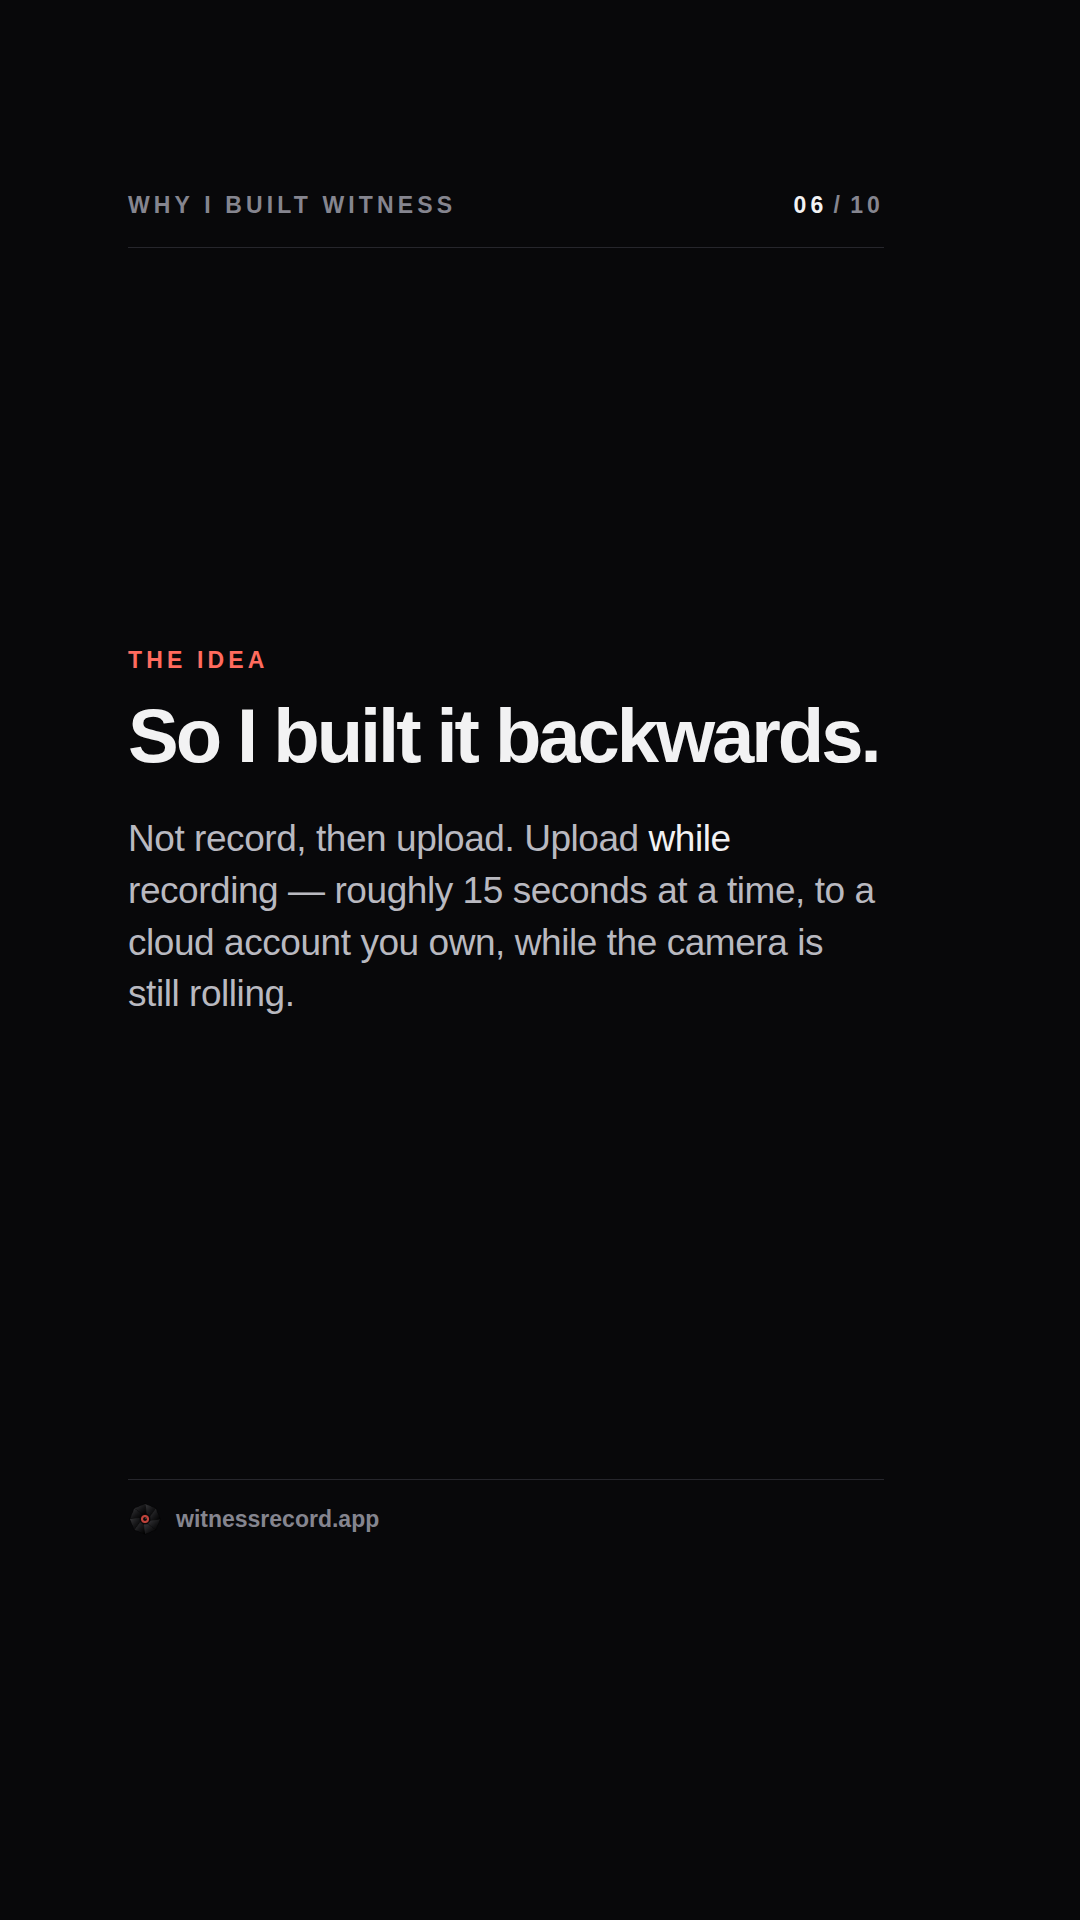
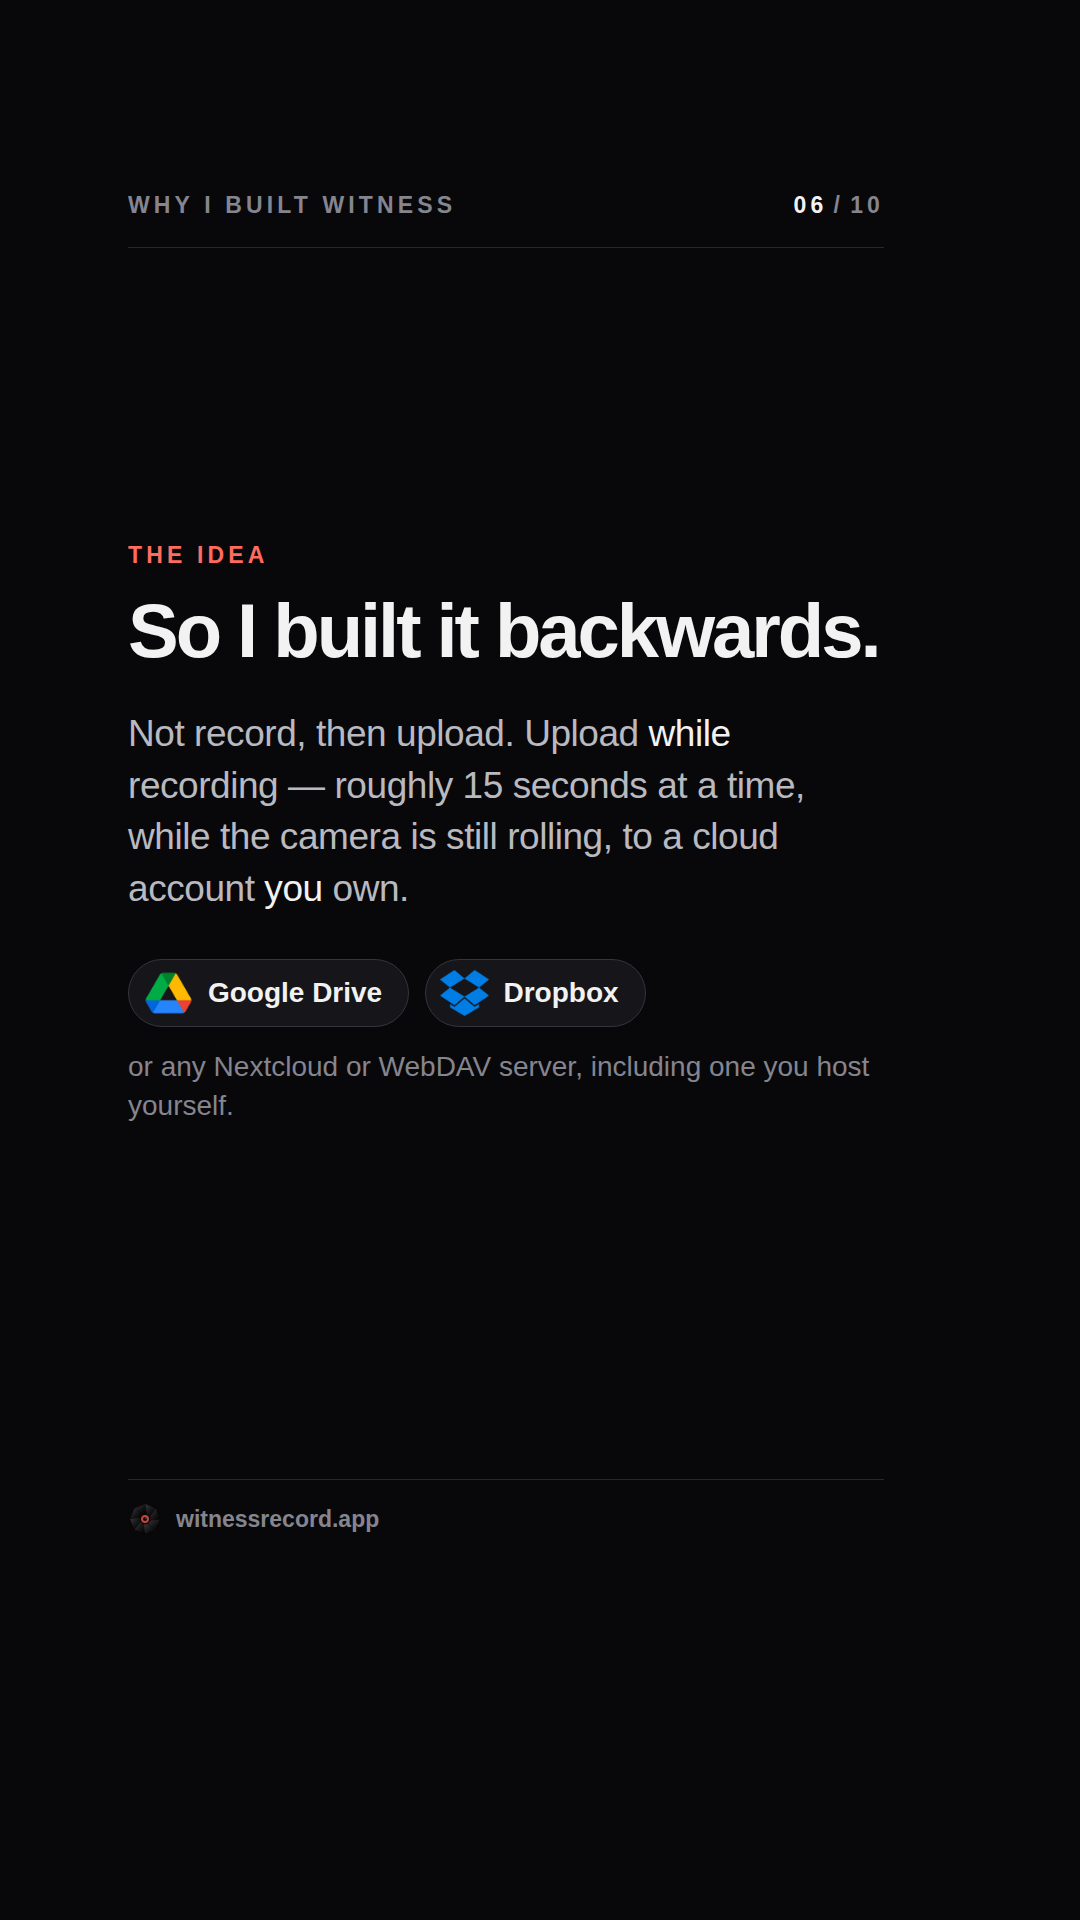
Show the storage destinations on the idea slide
Google Drive and Dropbox as logo chips, reusing the marks already in
img/. Nextcloud has no mark in this repo and WebDAV is a protocol
rather than a brand, so both are named in text instead of drawn from
memory.

The body line drops the destinations now that the chips carry them.

Claude-Session: https://claude.ai/code/session_01Akq5Wku8xeo6qiCmub5pxH

Changed region(s): [[0.1222, 0.2812, 0.7944, 0.5938], [0.7639, 0.4375, 0.7944, 0.4688]]

diff --git a/social/tiktok-injustice-story/Idea.dc.html b/social/tiktok-injustice-story/Idea.dc.html
@@ -21,7 +21,18 @@
 <div style="flex: 1; display: flex; flex-direction: column; justify-content: center; padding-bottom: 60px;">
   <div style="font-size: 23px; font-weight: 600; letter-spacing: 0.18em; text-transform: uppercase; color: #ff6b5e; margin-bottom: 22px;">The idea</div>
   <h2 style="margin: 0; font-size: 76px; font-weight: 700; letter-spacing: -0.04em; line-height: 1.04; color: #f2f2f3; text-wrap: pretty;">So I built it backwards.</h2>
-  <p style="margin: 38px 0 0; font-size: 37px; line-height: 1.4; letter-spacing: -0.012em; color: #b9b9c0; max-width: 756px; text-wrap: pretty;">Not record, then upload. Upload <em style="font-style: normal; color: #f2f2f3;">while</em> recording &#8212; roughly 15 seconds at a time, to a cloud account you own, while the camera is still rolling.</p>
+  <p style="margin: 38px 0 0; font-size: 37px; line-height: 1.4; letter-spacing: -0.012em; color: #b9b9c0; max-width: 756px; text-wrap: pretty;">Not record, then upload. Upload <em style="font-style: normal; color: #f2f2f3;">while</em> recording &#8212; roughly 15 seconds at a time, while the camera is still rolling, to a cloud account <em style="font-style: normal; color: #f2f2f3;">you</em> own.</p>
+  <div style="display: flex; flex-wrap: wrap; gap: 16px; margin-top: 44px;">
+    <div style="display: flex; align-items: center; gap: 14px; border: 1px solid #34343c; background: #16161a; border-radius: 999px; padding: 10px 26px 10px 14px;">
+      <img src="logo-google-drive.png" alt="" style="height: 46px; width: auto; display: block;">
+      <span style="font-size: 28px; font-weight: 600; color: #f2f2f3;">Google Drive</span>
+    </div>
+    <div style="display: flex; align-items: center; gap: 14px; border: 1px solid #34343c; background: #16161a; border-radius: 999px; padding: 10px 26px 10px 14px;">
+      <img src="logo-dropbox.png" alt="" style="height: 46px; width: auto; display: block;">
+      <span style="font-size: 28px; font-weight: 600; color: #f2f2f3;">Dropbox</span>
+    </div>
+  </div>
+  <div style="margin-top: 20px; font-size: 28px; line-height: 1.4; color: #85858f;">or any Nextcloud or WebDAV server, including one you host yourself.</div>
 </div>
 <div style="height: 1px; background: #26262c; margin: 0 0 22px;"></div>
 <div style="display: flex; align-items: center; gap: 14px;">

diff --git a/social/tiktok-injustice-story/build-slides.py b/social/tiktok-injustice-story/build-slides.py
@@ -84,7 +84,26 @@ def scene_label(text):
 
 # --------------------------------------------------------------- slide kinds
 
-def type_slide(n, headline, body, label=None, headline_size=64, accent=None):
+def providers():
+    """Where the footage actually goes. Only the two logos the repo already
+    ships are drawn; Nextcloud has no mark here and WebDAV is a protocol, not a
+    brand, so both are named in text rather than approximated."""
+    chip = ('    <div style="display: flex; align-items: center; gap: 14px; border: 1px solid %s; '
+            'background: %s; border-radius: 999px; padding: 10px 26px 10px 14px;">\n'
+            '      <img src="%s" alt="" style="height: 46px; width: auto; display: block;">\n'
+            '      <span style="font-size: 28px; font-weight: 600; color: %s;">%s</span>\n'
+            '    </div>')
+    return (
+        '  <div style="display: flex; flex-wrap: wrap; gap: 16px; margin-top: 44px;">\n'
+        + chip % (LINE_S, SURFACE, 'logo-google-drive.png', TEXT, 'Google Drive') + '\n'
+        + chip % (LINE_S, SURFACE, 'logo-dropbox.png', TEXT, 'Dropbox') + '\n'
+        '  </div>\n'
+        '  <div style="margin-top: 20px; font-size: 28px; line-height: 1.4; color: %s;">'
+        'or any Nextcloud or WebDAV server, including one you host yourself.</div>' % TEXT_3
+    )
+
+
+def type_slide(n, headline, body, label=None, headline_size=64, accent=None, extra=None):
     """A slide carried entirely by its words."""
     parts = [kicker(n),
              '<div style="flex: 1; display: flex; flex-direction: column; '
@@ -97,6 +116,8 @@ def type_slide(n, headline, body, label=None, headline_size=64, accent=None):
                  'line-height: 1.04; color: %s; text-wrap: pretty;">%s</h2>' % (headline_size, TEXT, headline))
     parts.append('  <p style="margin: 38px 0 0; font-size: 37px; line-height: 1.4; letter-spacing: -0.012em; '
                  'color: %s; max-width: 756px; text-wrap: pretty;">%s</p>' % (TEXT_2, body))
+    if extra:
+        parts.append(extra)
     parts.append('</div>')
     parts.append(footer())
     return SHELL.format(font=FONT, red_s=RED_S, body=frame('\n'.join(parts)))
@@ -274,8 +295,9 @@ slides['Turn.dc.html'] = photo_slide(
 slides['Idea.dc.html'] = type_slide(
     6, 'So I built it backwards.',
     'Not record, then upload. Upload <em style="font-style: normal; color: %s;">while</em> '
-    'recording &#8212; roughly 15 seconds at a time, to a cloud account you own, while the '
-    'camera is still rolling.' % TEXT, headline_size=76, label='The idea')
+    'recording &#8212; roughly 15 seconds at a time, while the camera is still rolling, to a '
+    'cloud account <em style="font-style: normal; color: %s;">you</em> own.' % (TEXT, TEXT),
+    headline_size=76, label='The idea', extra=providers())
 
 slides['Proof.dc.html'] = type_slide(
     7, 'Surviving is not enough.<br>It gets called fake.',
